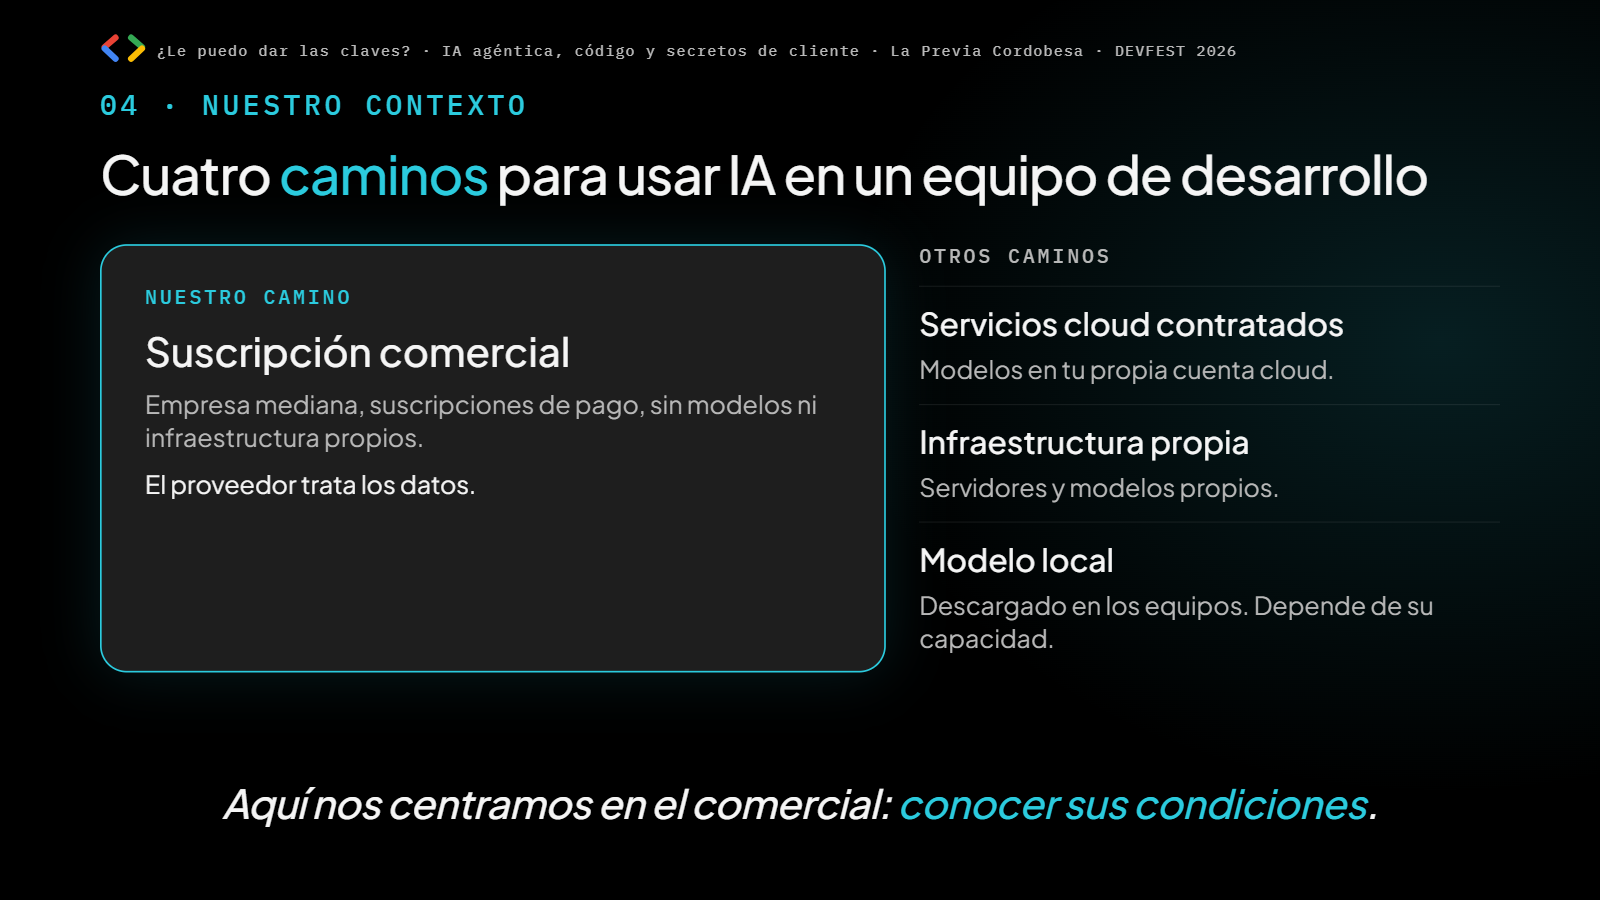
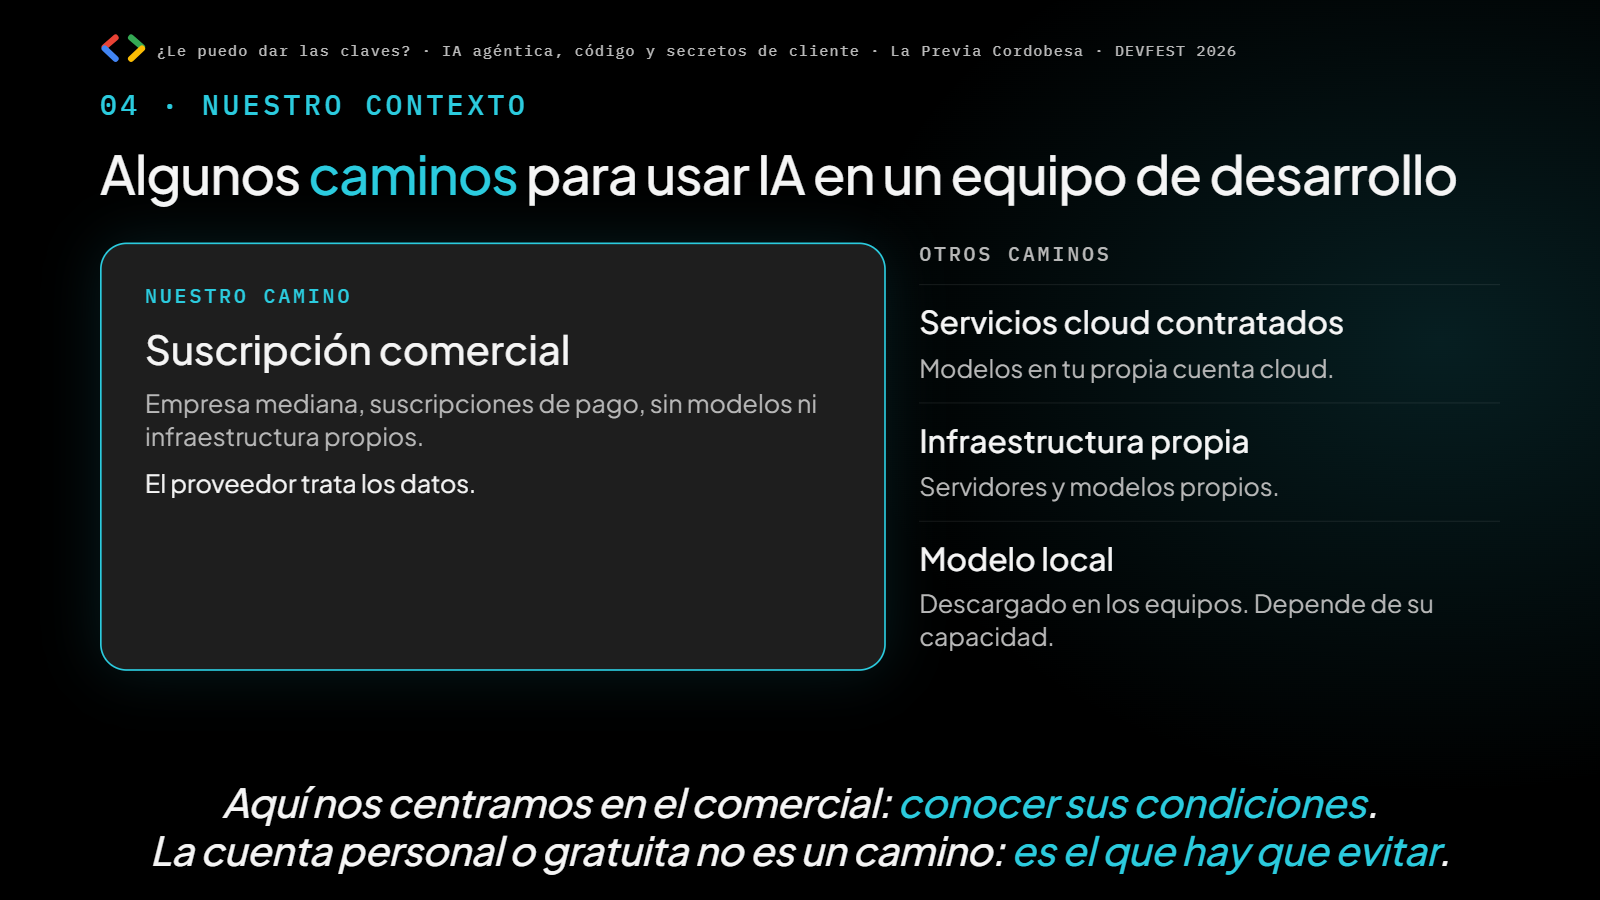
feat: reframe slide 04 as "some paths" and flag personal accounts
Retitle slide 04 from "Cuatro caminos" to "Algunos caminos", add closing
line warning against personal/free accounts, extend speaker notes with
off-screen variants (BYOK, direct API, hosted open models, proxy), and
refresh slide capture.

diff --git a/presentacion/src/slides.js b/presentacion/src/slides.js
@@ -4,7 +4,7 @@ export const slides = [
 {html:`<section data-accent="violet" class="nda-annotated sys"><p class="eyebrow">02 · NDA Y MARCO LEGAL</p><h2>La confidencialidad también se aplica a la <em>IA</em></h2><div class="example-block"><div class="example-head">5. Prohibición de herramientas externas e inteligencia artificial</div><blockquote>Salvo <span class="mark">1</span><em>autorización previa y escrita</em> del CLIENTE, la Parte Receptora no cargará la Información Confidencial en servicios públicos o compartidos de […] <span class="mark">2</span><em>inteligencia artificial generativa</em> o entrenamiento de modelos, ni en plataformas que permitan su <span class="mark">3</span><em>reutilización por terceros</em>.</blockquote></div><div class="anno-row"><div><span class="mark">1</span><p>Sin permiso previo y por escrito, no.</p></div><div><span class="mark">2</span><p>Nombra la IA generativa y el entrenamiento de modelos.</p></div><div><span class="mark">3</span><p>Tampoco en plataformas que reutilizan los datos.</p></div></div><p class="legal-line">Contrato de confidencialidad (NDA) · cada vez más, con cláusulas expresas sobre la IA</p><aside class="notes"><p><strong>GUION · 02 · NDA y marco legal · 3:00 junto con 02 bis</strong></p><ul><li>Pregunta a la sala: ¿quién ha visto un NDA? Contrato de confidencialidad de ciertos proyectos, sobre todo grandes; condiciona todo el trabajo con el cliente.</li><li>Cláusula real anonimizada. Señalar: 1 «autorización previa y escrita», 2 «inteligencia artificial generativa», 3 «reutilización por terceros».</li><li>Contraste: hay cláusulas genéricas que no nombran la IA («ni directamente ni a través de sus empleados, subcontratistas, agentes o terceros, revelarlos… cederlos…»). ¿Un proveedor de IA es un «tercero»?</li><li><strong>Mensaje clave:</strong> el contrato establece obligaciones; no configura el agente ni impide por sí mismo una exposición.</li><li>Transición: qué suele recoger un NDA que afecte a la IA.</li></ul><p><strong>REFERENCIA Y LÍMITES</strong></p><ul><li>Algunos NDA ya incluyen cláusulas específicas sobre IA; aunque no, otras (no revelar, no ceder a terceros) afectan igualmente.</li><li>Confidencialidad contractual no es protección de datos personales: el RGPD añade obligaciones específicas.</li><li>Mencionar el ENS (RD 311/2022) en su ámbito y el Reglamento europeo de IA sin repaso normativo; destacar la alfabetización en IA. Comprobar fechas y alcance antes del ensayo final.</li><li>La suscripción de pago no modifica automáticamente las obligaciones.</li><li>No identificar al cliente ni el contrato. No ofrecer asesoramiento jurídico.</li></ul></aside></section>`},
 {html:`<section data-accent="violet" class="nda-aspectos sys"><p class="eyebrow">02 · NDA Y MARCO LEGAL</p><h2>Aspectos clave de los NDA que afectan a la <em>IA</em></h2><p class="legal-line">El contrato puede:</p><div class="grid3"><div class="item"><b>Terceros <span class="ia">IA</span></b><p>Prohibir comunicar información a terceros.</p></div><div class="item"><b>Subcontratistas <span class="ia">IA</span></b><p>Exigir autorización previa.</p></div><div class="item"><b>Ubicación <span class="ia">IA</span></b><p>Limitar el alojamiento a la UE.</p></div><div class="item"><b>Datos personales</b><p>Controlar las transferencias fuera de la UE.</p></div><div class="item"><b>Entrenamiento <span class="ia">IA</span></b><p>Prohibir usar la información para entrenar.</p></div><div class="item"><b>Seguridad y accesos</b><p>Exigir medidas mínimas y personal autorizado.</p></div></div><div class="closing"><p>Antes de preguntar si entrenan, <em>pregunta si puedes dárselos</em>.</p></div><aside class="notes"><p><strong>GUION · 02 bis · Aspectos clave de los NDA · 3:00 junto con 02</strong></p><ul><li>Antes de decidir si se puede usar Cursor, Claude Code, Copilot u otro agente, clasificar contractualmente el proyecto.</li><li>Seis puntos. La etiqueta IA marca los que afectan directamente: terceros, subcontratistas, ubicación y entrenamiento. No hay leyenda en pantalla: la explico yo.</li><li>Recuperar la pregunta: ¿un proveedor de IA es un tercero? Puede encajar como subcontratista o encargado del tratamiento.</li><li>Si el contrato prohíbe dar información a terceros no autorizados, que el proveedor no entrene puede ser irrelevante: se la damos para que la procese.</li><li>Cierre en pantalla: «Antes de preguntar si entrenan, pregunta si puedes dárselos».</li><li>Transición: qué hace realmente un agente en nuestro entorno.</li></ul><p><strong>REFERENCIA Y LÍMITES</strong></p><ul><li>Depende de la redacción de la cláusula; validar con asesoría jurídica. No ofrecer asesoramiento jurídico.</li><li>Terceros: el proveedor lo es. Subcontratistas: puede serlo. Ubicación: dónde se procesan los datos. Entrenamiento: solo aplica a modelos. Datos personales y Seguridad y accesos son generales (sin etiqueta).</li><li>Con datos personales entra el RGPD: control de cadenas de tratamiento y transferencias internacionales; fuera del EEE, decisiones de adecuación o cláusulas contractuales tipo cuando correspondan.</li><li>Enlazar después con la slide de proveedores. Los nombres de herramientas son ejemplos, no recomendaciones.</li></ul></aside></section>`},
 {html:`<section data-accent="pink" class="agentes-rail sys"><p class="eyebrow">03 · AGENTES DE PROGRAMACIÓN</p><h2>Del chatbot a la factoría: cada paso amplía el <em>alcance</em></h2><div class="rail"><div class="rail-step"><span class="rail-node n1"></span><label>1 · CHATBOT</label><b>Tú le pegas el texto</b><p>Solo ve lo que pegas.</p></div><div class="rail-step"><span class="rail-node n2"></span><label>2 · AGENTE</label><b>Lee, ejecuta y se conecta</b><p>Ve el proyecto y tu entorno.</p></div><div class="rail-step"><span class="rail-node n3"></span><label>3 · FACTORÍA</label><b>Flujos de agentes</b><p>Tareas, validaciones y delegación.</p></div></div><div class="closing"><p>Cada paso amplía lo que puede encontrar:<br><em>.env, tokens de acceso, datos de cliente, código propietario…</em></p></div><aside class="notes"><p><strong>GUION · 03 · Agentes de programación · 3:00</strong></p><ul><li>Chatbot: tú le pegas el texto; solo ve lo que pegas.</li><li>Agente: conectado al entorno de desarrollo; lee archivos, modifica código, ejecuta comandos y usa servicios.</li><li>Factoría: flujos de agentes con especificaciones, tareas y validaciones. Se delega parte de las decisiones a la IA para reducir carga humana: enlace con <em>human in the loop</em> (qué decisiones siguen necesitando a una persona).</li><li>Cierre en pantalla: cada paso amplía lo que puede encontrar. Los puntos suspensivos: la lista es la de hoy y puede crecer.</li><li>Transición: el riesgo depende de cómo incorporamos estas capacidades al trabajo diario.</li></ul><p><strong>REFERENCIA Y LÍMITES</strong></p><ul><li>El alcance real depende de herramienta, sistema operativo, permisos e integraciones.</li><li>Puede encontrar información que el desarrollador no incluyó en el prompt (.env, tokens de acceso (no los del modelo), código propietario, configuraciones, datos de clientes).</li><li>No afirmar que todo lo que ve se envía al proveedor: el contexto necesario para procesar una tarea puede transmitirse según el producto.</li><li>Las especificaciones también valen con un agente individual. No desarrollar SDD aquí.</li></ul></aside></section>`},
-{html:`<section data-accent="cyan" class="ctx ctx-c sys"><p class="eyebrow">04 · NUESTRO CONTEXTO</p><h2>Cuatro <em>caminos</em> para usar IA en un equipo de desarrollo</h2><div class="ctx-split"><div class="ctx-main"><label>NUESTRO CAMINO</label><b>Suscripción comercial</b><p>Empresa mediana, suscripciones de pago, sin modelos ni infraestructura propios.</p><p class="sub">El proveedor trata los datos.</p></div><div class="ctx-others"><label>OTROS CAMINOS</label><div><b>Servicios cloud contratados</b><p>Modelos en tu propia cuenta cloud.</p></div><div><b>Infraestructura propia</b><p>Servidores y modelos propios.</p></div><div><b>Modelo local</b><p>Descargado en los equipos. Depende de su capacidad.</p></div></div></div><div class="closing"><p>Aquí nos centramos en el comercial: <em>conocer sus condiciones</em>.</p></div><aside class="notes"><p><strong>GUION · 04 · Nuestro contexto · 1:30</strong></p><ul><li>Escenario de muchas pymes: equipo mediano, suscripciones de pago, sin modelos ni infraestructura propios.</li><li>Otros caminos, una frase cada uno: cloud contratado, infraestructura propia, modelo local.</li><li>Nos centramos en el comercial: conocer cómo trata el proveedor los datos y bajo qué condiciones.</li><li>Transición: qué prometen los proveedores.</li></ul><p><strong>REFERENCIA Y LÍMITES</strong></p><ul><li>Modelo local: los datos se quedan en el equipo, pero exige capacidad (memoria gráfica, RAM, rendimiento) y limita la calidad del modelo. No dar cifras: cambian rápido.</li><li>Local no es automáticamente seguro: quita al proveedor de la cadena, pero siguen aplicando secretos, permisos, extensiones e integraciones.</li><li>Servicios cloud contratados pueden solaparse con alguna fila de la tabla (p. ej. Azure AI Foundry).</li><li>Foco en modalidades comerciales de uso profesional, no cuentas gratuitas o personales. No desarrollar los otros caminos. Nombres = ejemplos.</li></ul></aside></section>`},
+{html:`<section data-accent="cyan" class="ctx ctx-c sys"><p class="eyebrow">04 · NUESTRO CONTEXTO</p><h2>Algunos <em>caminos</em> para usar IA en un equipo de desarrollo</h2><div class="ctx-split"><div class="ctx-main"><label>NUESTRO CAMINO</label><b>Suscripción comercial</b><p>Empresa mediana, suscripciones de pago, sin modelos ni infraestructura propios.</p><p class="sub">El proveedor trata los datos.</p></div><div class="ctx-others"><label>OTROS CAMINOS</label><div><b>Servicios cloud contratados</b><p>Modelos en tu propia cuenta cloud.</p></div><div><b>Infraestructura propia</b><p>Servidores y modelos propios.</p></div><div><b>Modelo local</b><p>Descargado en los equipos. Depende de su capacidad.</p></div></div></div><div class="closing"><p>Aquí nos centramos en el comercial: <em>conocer sus condiciones</em>.<br>La cuenta personal o gratuita no es un camino: <em>es el que hay que evitar</em>.</p></div><aside class="notes"><p><strong>GUION · 04 · Nuestro contexto · 1:30</strong></p><ul><li>Criterio: los caminos se distinguen por dónde corre el modelo y quién lo contrata. Son algunos de los frecuentes, no una lista cerrada.</li><li>Escenario de muchas pymes: equipo mediano, suscripciones de pago, sin modelos ni infraestructura propios.</li><li>Otros caminos, una frase cada uno: cloud contratado, infraestructura propia, modelo local.</li><li>Cierre en pantalla: la cuenta personal o gratuita (shadow AI) no es un camino válido para información de cliente; es la que más se cuela y encaja con el caso Jira y el NDA.</li><li>Nos centramos en el comercial: conocer cómo trata el proveedor los datos y bajo qué condiciones.</li><li>Transición: qué prometen los proveedores.</li></ul><p><strong>REFERENCIA Y LÍMITES</strong></p><ul><li>Modelo local: los datos se quedan en el equipo, pero exige capacidad (memoria gráfica, RAM, rendimiento) y limita la calidad del modelo. No dar cifras: cambian rápido.</li><li>Local no es automáticamente seguro: quita al proveedor de la cadena, pero siguen aplicando secretos, permisos, extensiones e integraciones.</li><li>Servicios cloud contratados pueden solaparse con alguna fila de la tabla (p. ej. Azure AI Foundry).</li><li>Variantes fuera de pantalla, por si preguntan: API directa de pago por uso (no es una suscripción de producto); clave API propia (BYOK) en un IDE o extensión, que añade a la herramienta como actor extra en la cadena; modelos abiertos alojados por terceros (ni local ni infraestructura propia: otro tercero trata los datos); pasarela o proxy corporativo entre el equipo y los proveedores (registro, filtrado de secretos, control de cuentas), que es un control más que un camino.</li><li>Foco en modalidades comerciales de uso profesional, no cuentas gratuitas o personales. No desarrollar los otros caminos. Nombres = ejemplos.</li></ul></aside></section>`},
 {html:`<section data-accent="lime" class="sys p5"><p class="eyebrow">05 · PRIVACIDAD Y PROVEEDORES</p><h2>Tres conceptos que <em>no debemos confundir</em></h2><div class="p5-vs"><div class="p5-w"><label>ENTRENAMIENTO</label><strong>No entrenar</strong><p>Uso del contenido para mejorar modelos.</p></div><span class="p5-ne" role="img" aria-label="no es lo mismo que">≠</span><div class="p5-w p5-w--b"><label>RETENCIÓN</label><strong>No almacenar</strong><p>Registros del contenido y su finalidad.</p></div></div><div class="p5-chips"><div><label>NO ENTRENAMIENTO</label><p>¿Entrenan con mis datos?</p></div><div><label>RETENCIÓN</label><p>¿Cuánto tiempo lo conservan?</p></div><div><label>ZDR</label><p>¿Lo conservan tras procesarlo?</p></div></div><aside class="notes"><p><strong>GUION · 05A · Tres conceptos · 1:00</strong></p><ul><li>Mensaje central: «No entrenar ≠ no almacenar». Tres preguntas distintas: entrenamiento, retención y ZDR.</li><li>Ejemplo: un proveedor excluye los prompts del entrenamiento, pero conserva registros de contenido un periodo limitado para supervisión de abuso.</li><li>ZDR se refiere al contenido y a los sistemas cubiertos.</li><li>Cierre oral: «Que no entrenen con tus datos no significa que no los almacenen».</li><li>Transición: qué hemos comparado.</li></ul><p><strong>REFERENCIA Y LÍMITES</strong></p><ul><li>Con ZDR pueden seguir existiendo metadatos y funciones con estado fuera del alcance cubierto.</li><li>Aclarar los conceptos antes de ver la matriz.</li></ul></aside></section>`},
 {html:`<section data-accent="lime" class="sys p6"><p class="eyebrow">05 · PRIVACIDAD Y PROVEEDORES</p><h2>¿Qué <em>garantías</em> ofrecen?</h2><div class="p6-table"><div class="prv-row p6-head"><span>PROVEEDOR</span><span>SERVICIO</span><span>NO ENTRENAMIENTO</span><span>ZDR</span><span>MATIZ</span></div><div class="prv-row p6-first"><b class="p6-prov">OpenAI</b><span class="p6-svc">Business / Enterprise</span><span class="c"><i class="sym y" aria-label="Sí">✓</i></span><span class="c"><i class="sym n" aria-label="No es una garantía general">—</i></span><span class="m">Según plan y controles</span></div><div class="prv-row"><b class="p6-prov"></b><span class="p6-svc">API</span><span class="c"><i class="sym y" aria-label="Sí">✓</i></span><span class="c"><i class="sym p" aria-label="Depende"></i></span><span class="m">30 días; ZDR con aprobación</span></div><div class="prv-row p6-first"><b class="p6-prov">Anthropic</b><span class="p6-svc">Team / Enterprise</span><span class="c"><i class="sym y" aria-label="Sí">✓</i></span><span class="c"><i class="sym n" aria-label="No es una garantía general">—</i></span><span class="m">Según política organizativa</span></div><div class="prv-row"><b class="p6-prov"></b><span class="p6-svc">API / Code API</span><span class="c"><i class="sym y" aria-label="Sí">✓</i></span><span class="c"><i class="sym p" aria-label="Depende"></i></span><span class="m">ZDR contractual; funciones excluidas</span></div><div class="prv-row p6-first"><b class="p6-prov">Google</b><span class="p6-svc">Gemini API (pago)</span><span class="c"><i class="sym y" aria-label="Sí">✓</i></span><span class="c"><i class="sym n" aria-label="No es una garantía general">—</i></span><span class="m">Registros limitados; funciones con estado</span></div><div class="prv-row p6-first"><b class="p6-prov">GitHub</b><span class="p6-svc">Copilot Business / Enterprise</span><span class="c"><i class="sym y" aria-label="Sí">✓</i></span><span class="c"><i class="sym p" aria-label="Depende"></i></span><span class="m">Depende del modelo y proveedor</span></div><div class="prv-row p6-first"><b class="p6-prov">Cursor</b><span class="p6-svc">Teams / Enterprise</span><span class="c"><span class="symw"><i class="sym y" aria-label="Sí, con condición">✓</i><span class="ast">*</span></span></span><span class="c"><i class="sym p" aria-label="Depende"></i></span><span class="m">Privacy Mode; excepciones y agentes cloud</span></div><div class="prv-row p6-first"><b class="p6-prov">Microsoft</b><span class="p6-svc">Azure AI Foundry</span><span class="c"><i class="sym y" aria-label="Sí">✓</i></span><span class="c"><i class="sym n" aria-label="No es una garantía general">—</i></span><span class="m">Modelos stateless; funciones con estado</span></div></div><p class="p6-legend"><span><i class="sym y">✓</i> sí, por defecto</span><span><i class="sym p"></i> depende del plan o la configuración</span><span><i class="sym n">—</i> no es garantía general</span></p><p class="p6-foot">✓ no es retención cero. ZDR solo si se contrata. * Cursor: requiere Privacy Mode. Revisión documental de modalidades profesionales, no auditoría de tu configuración · Fuentes: 22/11/2026.</p><aside class="notes">FUSIÓN de 05B (modalidades revisadas, 0:30) y 05C. Abrir con 05B: se han comparado seis proveedores en sus modalidades profesionales (no todos los productos de cada empresa; una API comercial o un servicio cloud no equivalen a Business o Team, pero son alternativas reales de un equipo de desarrollo). Los nombres no son recomendaciones: es revisión documental, no auditoría de la configuración de cada organización. Diseño: el proveedor es una columna y los servicios llevan nombres cortos; la advertencia queda en el pie. GUION · 05C · Garantías · 2:30. Resumen de compromisos publicados por los propios proveedores en sus modalidades profesionales; no acredita qué condiciones se han contratado ni sustituye el DPA, los términos aplicables o la configuración. Cuidado: un guion en ZDR no significa que el proveedor carezca de opciones específicas; ◐ = condiciones que comprobar; no trasladar garantías de una API a una suscripción ni de un modelo a todas las funciones; Cursor requiere Privacy Mode y los agentes cloud se revisan aparte. Mensaje oral: «La mayoría ofrece compromisos de no entrenamiento en sus modalidades profesionales. La retención y el ZDR son mucho más variables: dependen del producto y de cómo lo usamos». ChatGPT Business/Enterprise no es lo mismo que la API de OpenAI. Claude Team/Enterprise no tiene ZDR general. Gemini API de pago no equivale a Vertex AI. ✓ no significa retención cero. No clasificar proveedores ni recomendar uno: lo importante es saber qué condiciones aceptamos. Verificar producto, plan, modelo, funciones y servicios externos; revalidar la matriz antes del ensayo (consulta: 22/11/2026). Enlazar con la slide del NDA: «Antes de preguntar si entrenan, pregunta si puedes dárselos». Transición: «Conocer las condiciones del proveedor es necesario, pero no suficiente. También tenemos que controlar qué información y qué permisos ponemos a disposición del agente». Ejemplo: Privacy Mode activado, pero clave API propia, agente cloud o servidor MCP: cada componente añade condiciones y flujos de datos.</aside></section>`},
 {html:`<section data-accent="amber" class="sys p8"><p class="eyebrow">06 · CONFIGURACIÓN SEGURA DEL SOFTWARE</p><h2>Controles que protegen con o sin <em>IA</em></h2><div class="p8-main"><ul class="p8-list"><li class="p8-l fragment" data-fragment-index="1"><b>01</b><strong>Secretos</strong><small>Fuera del repositorio y del agente.</small></li><li class="p8-l fragment" data-fragment-index="2"><b>02</b><strong>Mínimo privilegio</strong><small>Solo lo necesario: rol de solo lectura.</small></li><li class="p8-l fragment" data-fragment-index="3"><b>03</b><strong>Entornos</strong><small>Separados de producción, datos sintéticos.</small></li><li class="p8-l fragment" data-fragment-index="4"><b>04</b><strong>Proyecto</strong><small>Detección de secretos antes del commit.</small></li></ul><div class="p8-stage"><div class="p8-term fragment fade-out" data-fragment-index="1"><div class="p8-bar"><i></i><i></i><i></i><span>controles</span></div><pre class="code"><span class="c"># cuatro controles de siempre</span>

diff --git a/presentacion/CONTENIDO-SLIDES.md b/presentacion/CONTENIDO-SLIDES.md
@@ -203,7 +203,7 @@ La portada, las referencias y el cierre no tienen desarrollo adicional. Las preg
 
 **Texto visible**
 
-> Cuatro caminos para usar IA en un equipo de desarrollo
+> Algunos caminos para usar IA en un equipo de desarrollo
 >
 > **Nuestro camino: suscripción comercial**  
 > Empresa mediana, suscripciones de pago, sin modelos ni infraestructura propios. El proveedor trata los datos.
@@ -213,14 +213,17 @@ La portada, las referencias y el cierre no tienen desarrollo adicional. Las preg
 > Infraestructura propia: servidores y modelos propios.  
 > Modelo local: descargado en los equipos; depende de su capacidad.
 >
-> *Aquí nos centramos en el comercial: conocer sus condiciones.*
+> *Aquí nos centramos en el comercial: conocer sus condiciones.  
+> La cuenta personal o gratuita no es un camino: es el que hay que evitar.*
 
 **Notas del ponente**
 
 **GUION · 04 · Nuestro contexto · 1:30**
 
+- Criterio: los caminos se distinguen por dónde corre el modelo y quién lo contrata. Son algunos de los frecuentes, no una lista cerrada.
 - Escenario de muchas pymes: equipo mediano, suscripciones de pago, sin modelos ni infraestructura propios.
 - Otros caminos, una frase cada uno: cloud contratado, infraestructura propia, modelo local.
+- Cierre en pantalla: la cuenta personal o gratuita (shadow AI) no es un camino válido para información de cliente; es la que más se cuela y encaja con el caso Jira y el NDA.
 - Nos centramos en el comercial: conocer cómo trata el proveedor los datos y bajo qué condiciones.
 - Transición: qué prometen los proveedores.
 
@@ -229,6 +232,7 @@ La portada, las referencias y el cierre no tienen desarrollo adicional. Las preg
 - Modelo local: los datos se quedan en el equipo, pero exige capacidad (memoria gráfica, RAM, rendimiento) y limita la calidad del modelo. No dar cifras: cambian rápido.
 - Local no es automáticamente seguro: quita al proveedor de la cadena, pero siguen aplicando secretos, permisos, extensiones e integraciones.
 - Servicios cloud contratados pueden solaparse con alguna fila de la tabla (p. ej. Azure AI Foundry).
+- Variantes fuera de pantalla, por si preguntan: API directa de pago por uso (no es una suscripción de producto); clave API propia (BYOK) en un IDE o extensión, que añade a la herramienta como actor extra en la cadena; modelos abiertos alojados por terceros (ni local ni infraestructura propia: otro tercero trata los datos); pasarela o proxy corporativo entre el equipo y los proveedores (registro, filtrado de secretos, control de cuentas), que es un control más que un camino.
 - Foco en modalidades comerciales de uso profesional, no cuentas gratuitas o personales. No desarrollar los otros caminos. Nombres = ejemplos.
 
 ## 5. Privacidad y proveedores — 4:00
